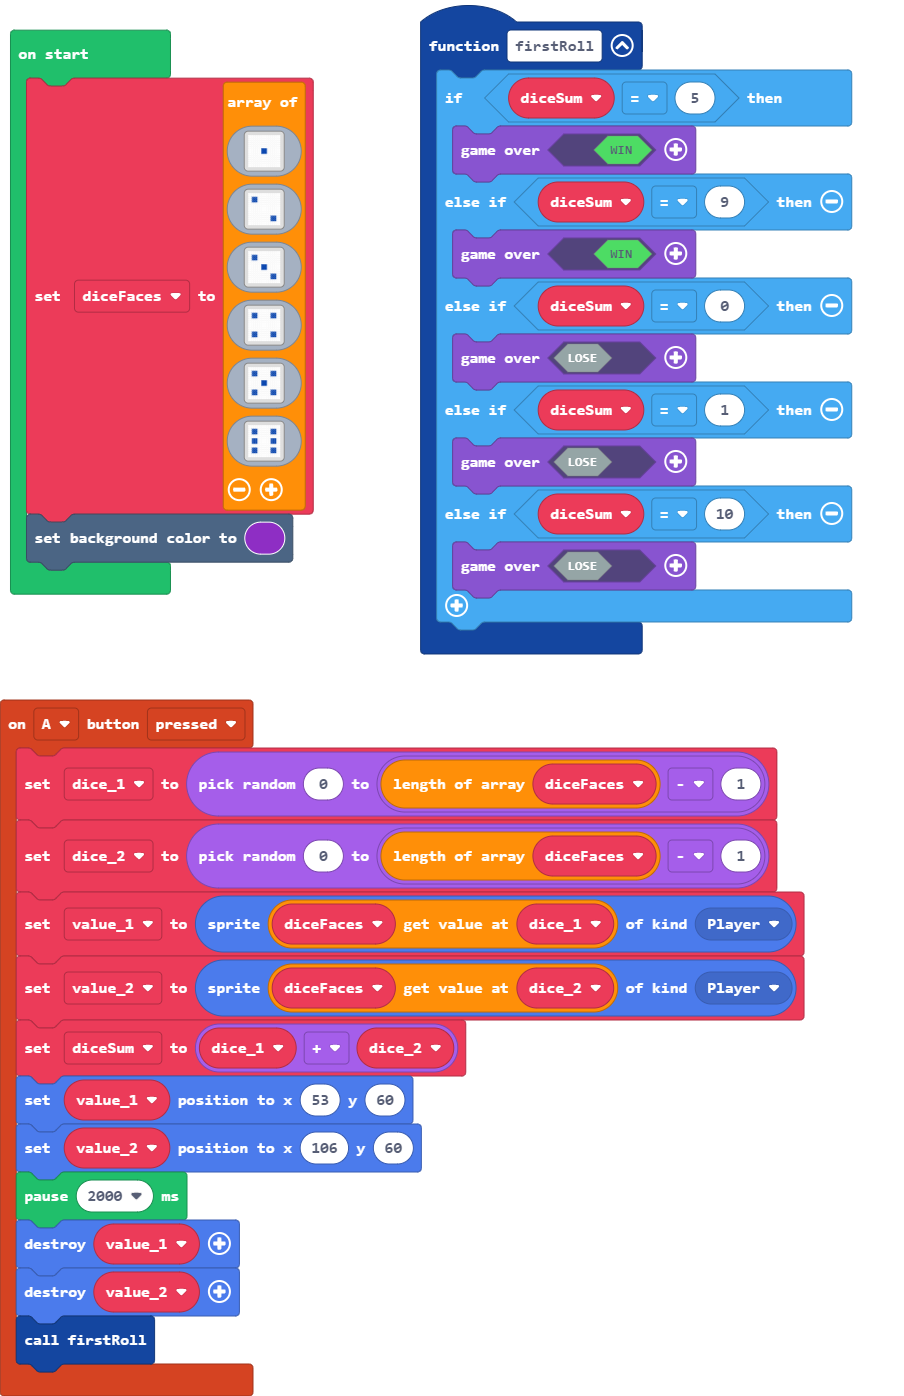
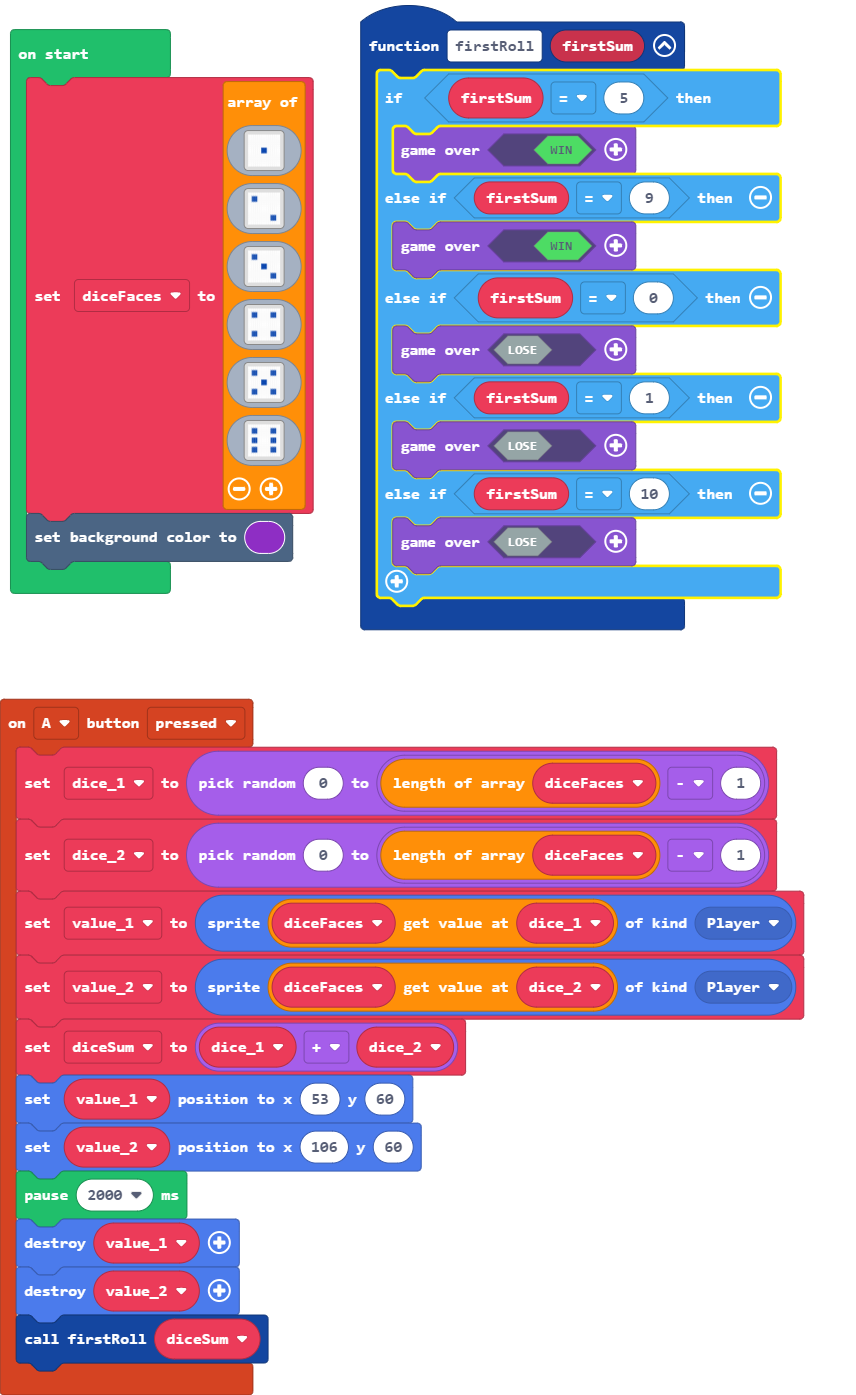
Update main.blocks, main.ts

diff --git a/main.ts b/main.ts
@@ -1,13 +1,13 @@
-function firstRoll () {
-    if (diceSum == 5) {
+function firstRoll (firstSum: number) {
+    if (firstSum == 5) {
         game.over(true)
-    } else if (diceSum == 9) {
+    } else if (firstSum == 9) {
         game.over(true)
-    } else if (diceSum == 0) {
+    } else if (firstSum == 0) {
         game.over(false)
-    } else if (diceSum == 1) {
+    } else if (firstSum == 1) {
         game.over(false)
-    } else if (diceSum == 10) {
+    } else if (firstSum == 10) {
         game.over(false)
     }
 }
@@ -22,13 +22,13 @@ controller.A.onEvent(ControllerButtonEvent.Pressed, function () {
     pause(2000)
     value_1.destroy()
     value_2.destroy()
-    firstRoll()
+    firstRoll(diceSum)
 })
+let diceSum = 0
 let value_2: Sprite = null
 let value_1: Sprite = null
 let dice_2 = 0
 let dice_1 = 0
-let diceSum = 0
 let diceFaces: Image[] = []
 diceFaces = [
 img`
